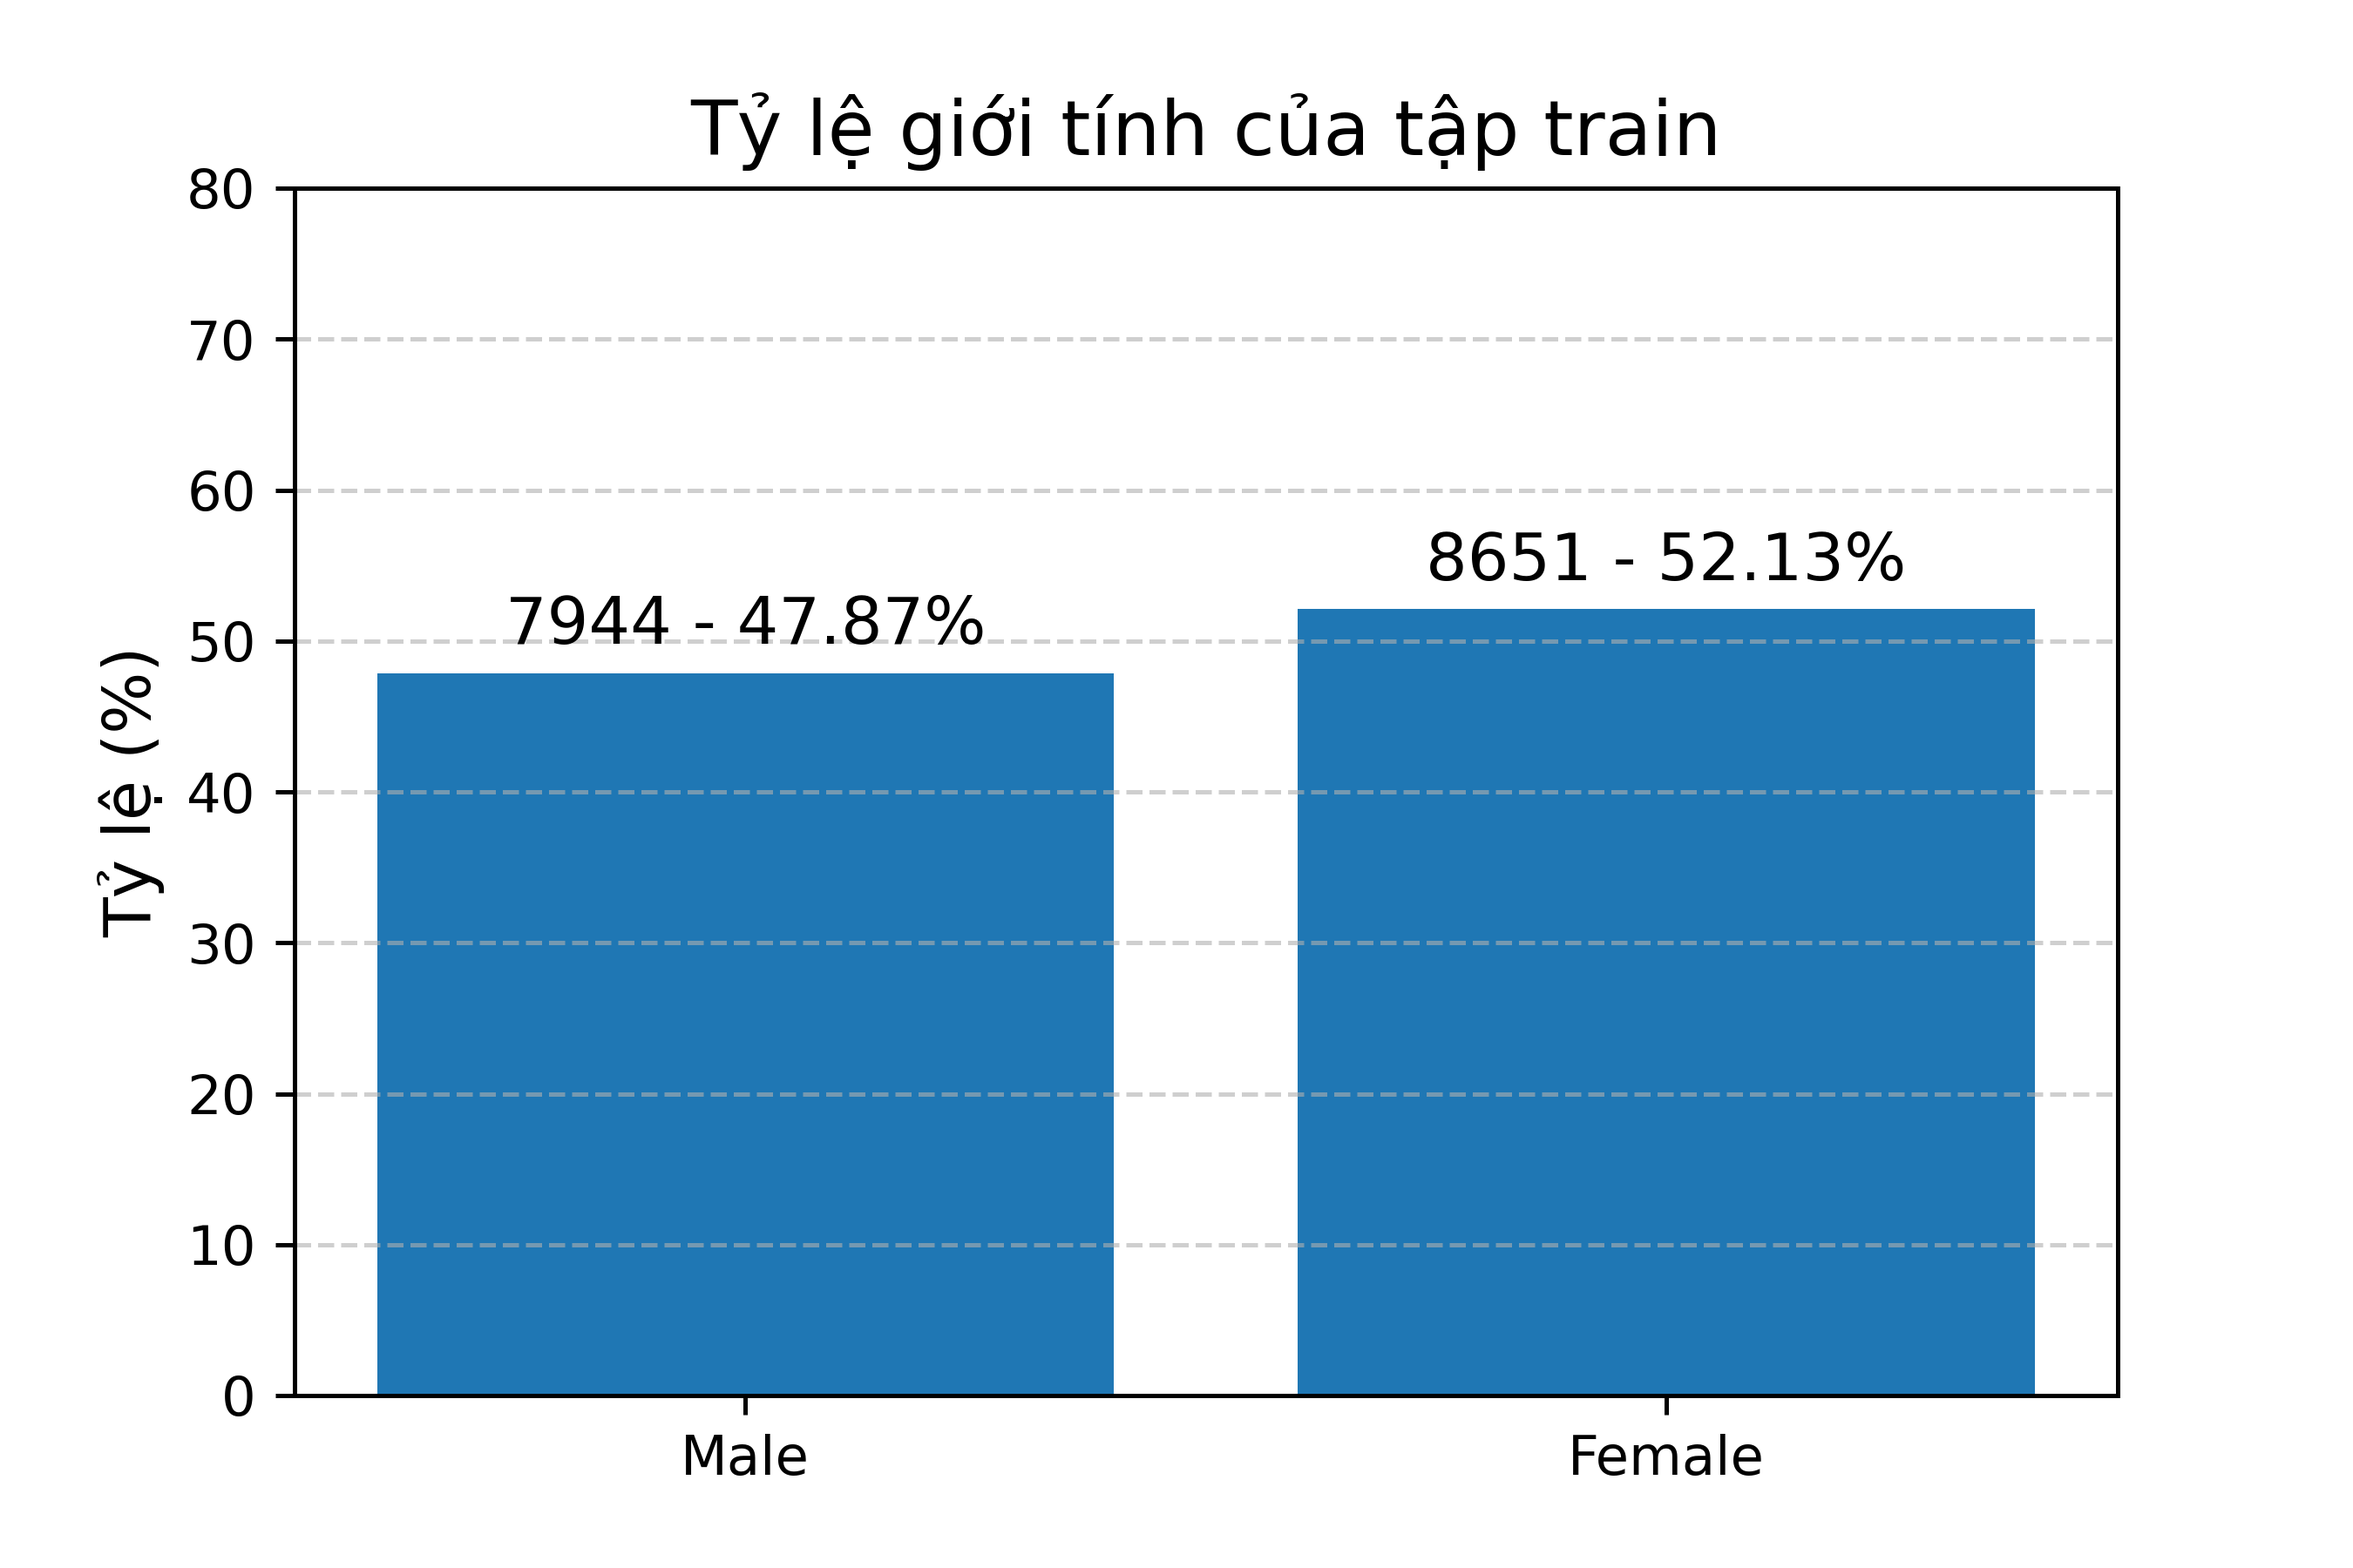
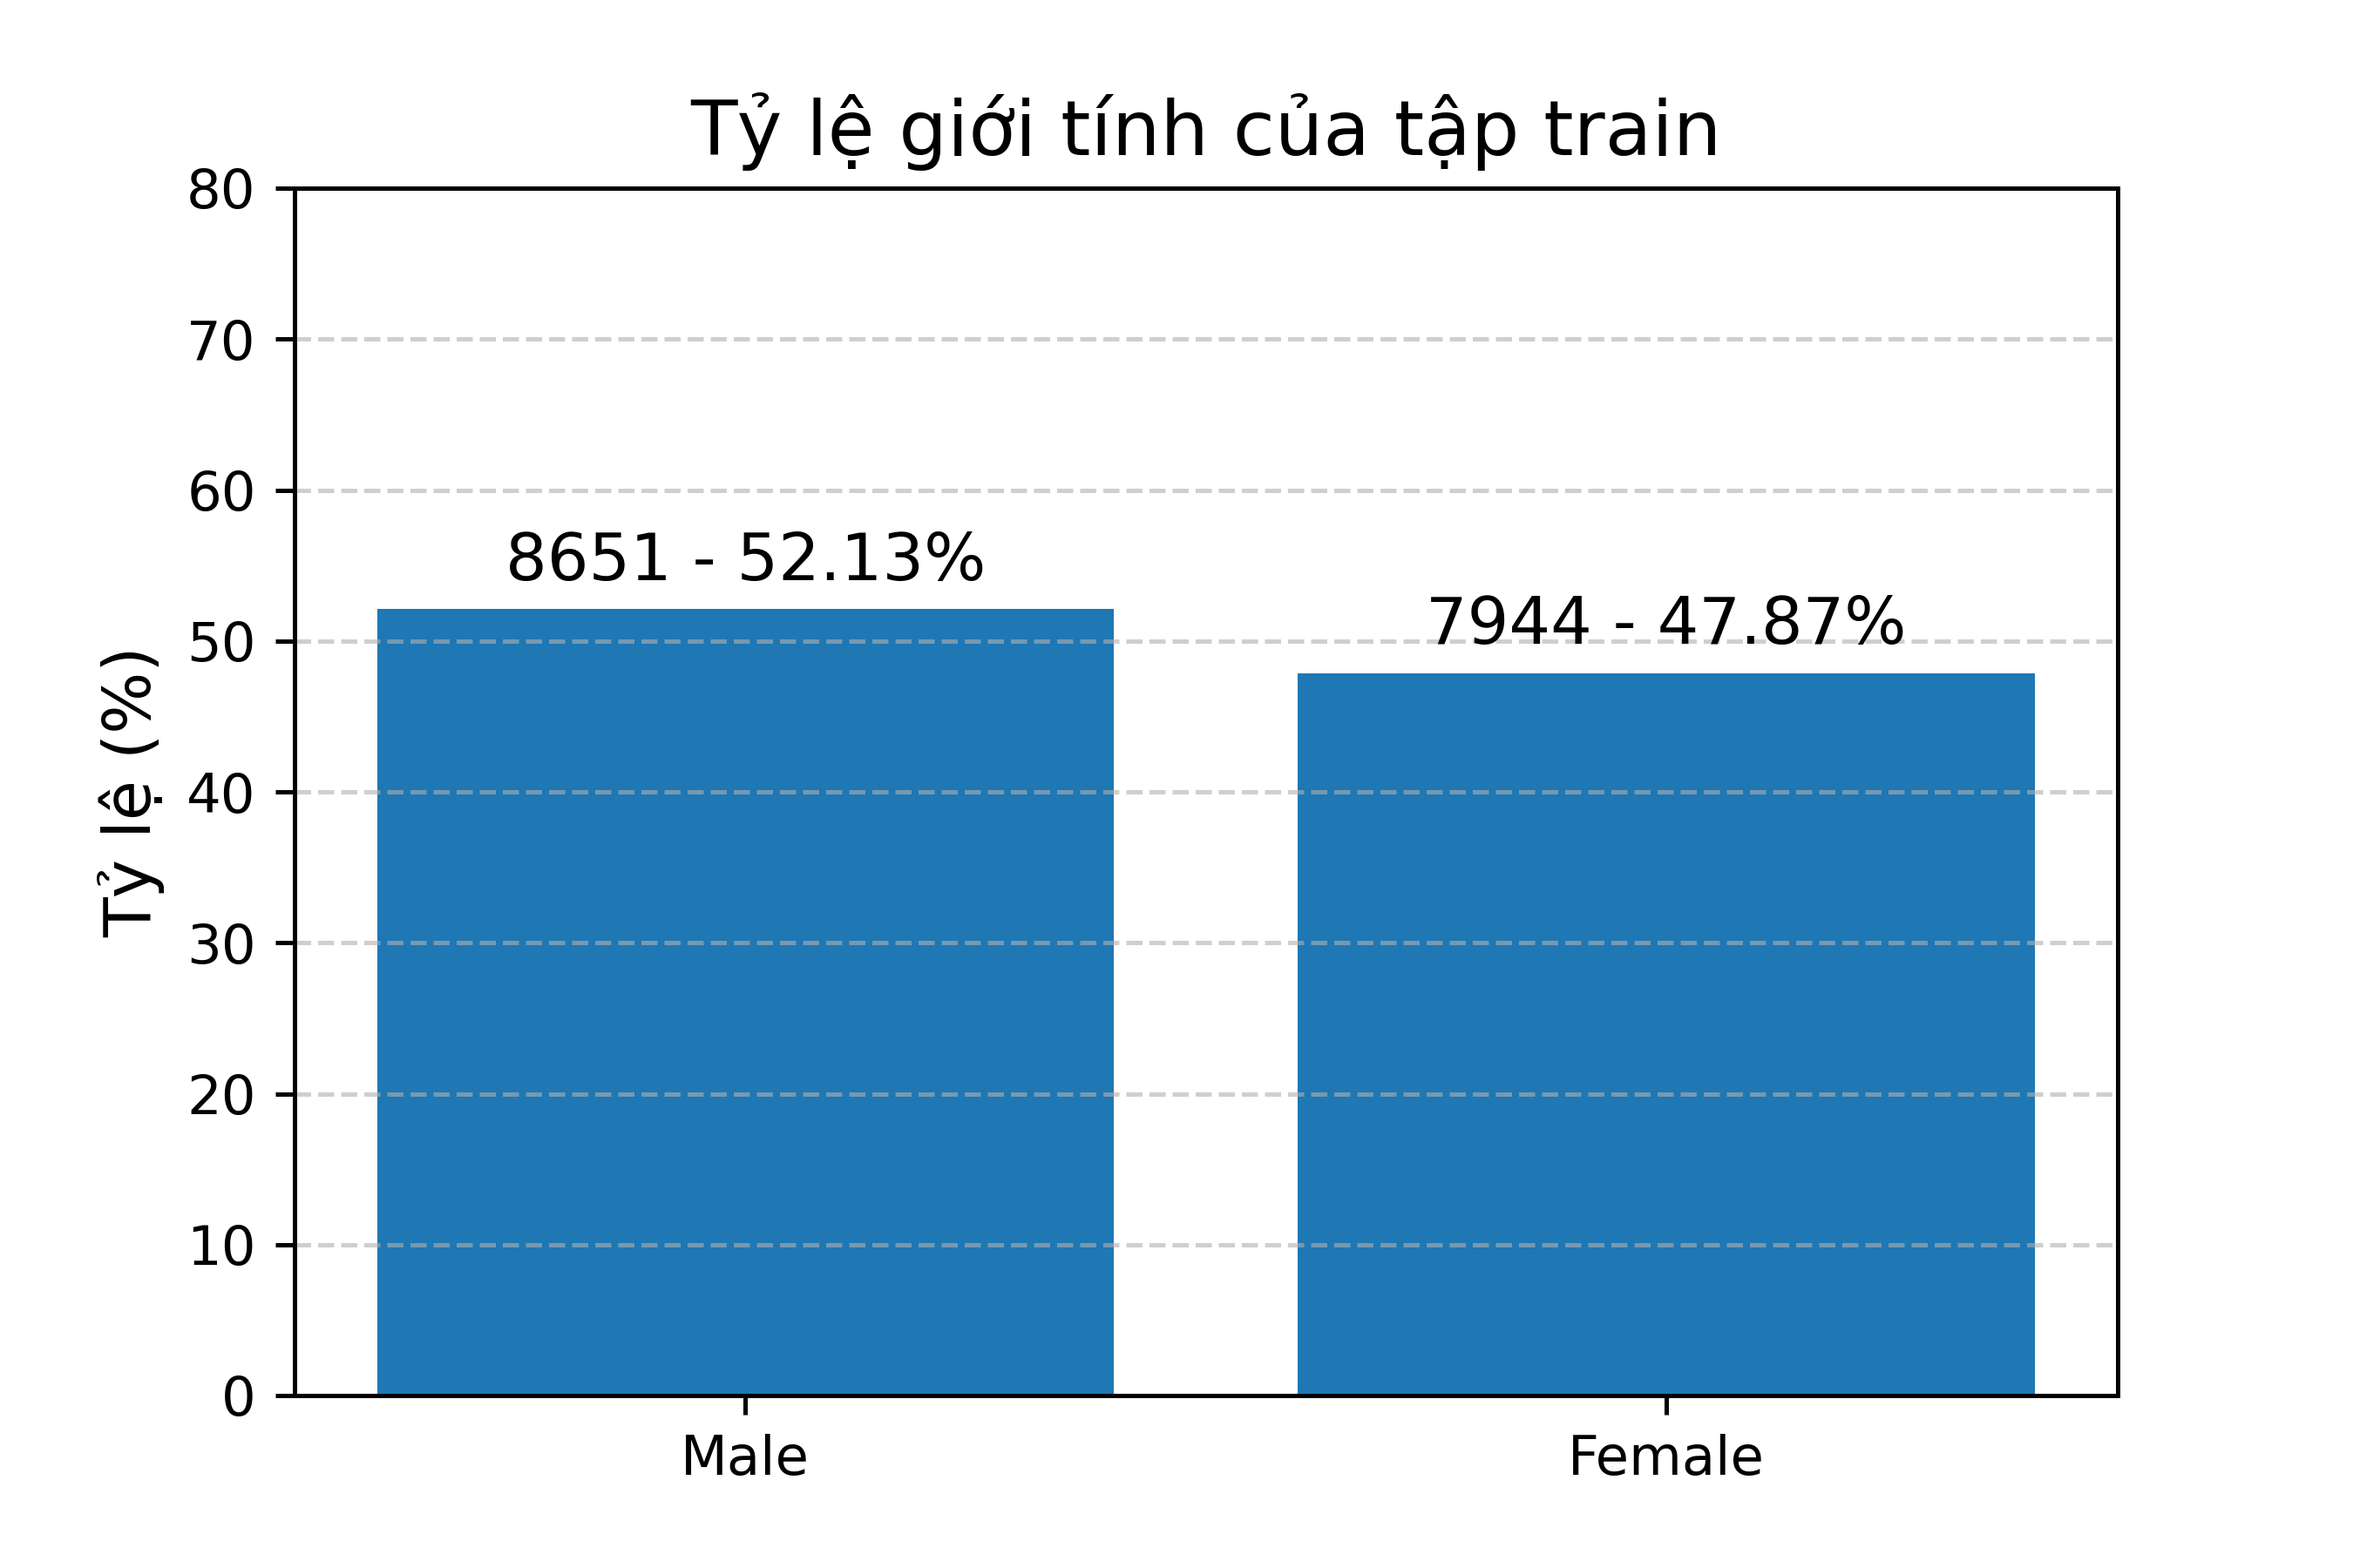
Fix wrong label in README and visualization

Changed region(s): [[0.5289, 0.3422, 0.8711, 0.4356], [0.1556, 0.3422, 0.4978, 0.4356]]

diff --git a/README.md b/README.md
@@ -1,22 +1,34 @@
 # Dữ liệu bài tập lớn xử lý ảnh
 
 ## Định dạng
+
 labeled/train/img/...jpg
+
 labeled/train/label.csv
 
+
 labeled/valid/img/...jpg
+
 labeled/valid/label.csv
 
+
 labeled/test/img/...jpg
+
 labeled/test/label.csv
 
 ### Định dạng csv (name, age, gender)
-gender = 1: Nam
-gender = 0: Nữ
+
+gender = 0: Nam
+
+gender = 1: Nữ
+
 
 ## Mô tả
+
 age: giá trị liên tục, mean = 33, min = 1, max = 116
+
 gender: giá trị rời rạc (nhị phân)
+
 
 ## Trực quan
 
